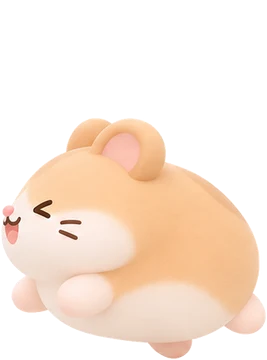
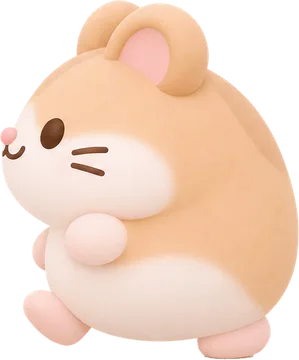
햄스터 옆모습 걷기 그림 4장 교체, 걷는 동작 2장 번갈아 쓰기, 액세서리 위치 다시 맞춤

diff --git a/animals.js b/animals.js
@@ -17,7 +17,7 @@ export const ANIMALS = [
   { id: 'bear', label: '곰', emoji: '🐻' },
   { id: 'fox', label: '여우', emoji: '🦊' },
   { id: 'sheep', label: '양', emoji: '🐑' },
-  { id: 'hamster', label: '햄스터', emoji: '🐹', runOnly: true }, // 옆으로 움직일 땐 달리는 그림(2번)만
+  { id: 'hamster', label: '햄스터', emoji: '🐹' },
 ];
 
 // 액세서리 부위: 부위마다 하나씩 착용
@@ -61,7 +61,7 @@ export const animalOf = (id) => BY_ID.get(id) || null;
 // 옆으로 움직일 때 쓰는 그림 번호: 보통은 1·2번을 번갈아, runOnly면 2번만
 export const walkFrames = (id) => (BY_ID.get(id)?.runOnly ? [1] : [0, 1]);
 export const accOf = (id) => ACC_BY_ID.get(id) || null;
-export const ANIMAL_VER = 3; // 그림을 바꾸면 올려서 캐시를 새로 받게 함
+export const ANIMAL_VER = 4; // 그림을 바꾸면 올려서 캐시를 새로 받게 함
 export const animalImg = (id, view = 'front') => `img/animals/${id}-${view}.webp?v=${ANIMAL_VER}`;
 export const accImg = (id) => `img/acc/${id}.webp?v=${ANIMAL_VER}`;
 export const VIEWS = ['front', 'back', 'left1', 'left2', 'right1', 'right2'];
@@ -90,7 +90,7 @@ export const accHtml = (it, cls = '') => `<img class="${cls}" src="${accImg(it.i
 //   feet: 발바닥 가운데 · pack: 가방 가운데
 // F = 앞모습(뒷모습은 좌우 반전해서 씀), S = 왼쪽을 보는 옆모습(오른쪽은 좌우 반전)
 // fw / sw = 앞모습 / 옆모습 그림 폭(px)
-// S2 / sw2: 옆모습 두 번째 장이 첫 장과 많이 다를 때만 (햄스터: 달리는 자세)
+// S2 / sw2: 옆모습 두 번째 장이 첫 장과 많이 다를 때만 (지금은 쓰는 동물 없음)
 const ANCHORS = {
   cat: { fw: 286, sw: 262,
     F: { head: [146, 46, 200], eyes: [148, 160, 175], neck: [146, 224, 150], body: [146, 214, 150], feet: [143, 357, 165], pack: [146, 270, 150] },
@@ -122,10 +122,9 @@ const ANCHORS = {
   sheep: { fw: 343, sw: 280,
     F: { head: [171, 24, 200], eyes: [170, 154, 160], neck: [171, 226, 165], body: [171, 220, 170], feet: [171, 357, 170], pack: [171, 290, 160] },
     S: { head: [140, 26, 200], eyes: [32, 154, 105], neck: [84, 232, 115], body: [116, 224, 140], feet: [110, 354, 150], pack: [200, 282, 150] } },
-  hamster: { fw: 299, sw: 266, sw2: 267,
+  hamster: { fw: 299, sw: 300,
     F: { head: [149, 30, 190], eyes: [147, 122, 150], neck: [148, 178, 145], body: [148, 172, 172], feet: [148, 357, 180], pack: [148, 232, 165] },
-    S: { head: [140, 32, 180], eyes: [40, 130, 105], neck: [80, 182, 105], body: [122, 178, 138], feet: [112, 352, 145], pack: [210, 232, 140] },
-    S2: { head: [112, 174, 150], eyes: [42, 194, 95], neck: [70, 250, 85], body: [138, 236, 112], feet: [132, 352, 130], pack: [206, 228, 120] } },
+    S: { head: [155, 38, 180], eyes: [51, 137, 105], neck: [95, 200, 110], body: [140, 195, 150], feet: [165, 352, 170], pack: [238, 225, 140] } },
 };
 const H = 360;
 // 부위별: 기준점에 액세서리 그림의 어느 점을 맞출지 (그림 크기 대비 %), 옆모습에서 가로로 줄이는 정도
@@ -161,7 +160,7 @@ const FRAMES = {
   bear: { w: [255, 267, 246, 244, 234, 249], hc: [126, 132], ef: [78, 175, 134], es: [[50, 143], [40, 135], [190, 134], [201, 137]] },
   fox: { w: [298, 270, 310, 335, 315, 337], hc: [132, 134], ef: [84, 184, 155], es: [[46, 156], [42, 154], [270, 146], [296, 143]] },
   sheep: { w: [343, 318, 280, 261, 266, 277], hc: [171, 158], ef: [125, 216, 156], es: [[30, 143], [31, 151], [231, 138], [240, 154]] },
-  hamster: { w: [299, 294, 266, 267, 264, 249], hc: [149, 146], ef: [103, 196, 124], es: [[31, 137], [43, 209], [234, 137], [207, 211]] },
+  hamster: { w: [299, 294, 300, 299, 283, 286], hc: [149, 146], ef: [103, 196, 124], es: [[51, 137], [51, 138], [246, 128], [249, 128]] },
 };
 const VIEW_IDX = { front: 0, back: 1, left1: 2, left2: 3, right1: 4, right2: 5 };
 const LENS = 0.445; // 안경 그림에서 두 렌즈 가운데 사이 거리 (그림 폭 대비)

diff --git a/plaza2d.js b/plaza2d.js
@@ -3,7 +3,7 @@
 // - 걷는 방향에 따라 앞·옆·뒷모습으로 바뀜, 뒤쪽(위)으로 갈수록 작게 보임
 // - 방향키 / WASD / 바닥 클릭 / 화면 방향 버튼으로 이동, Shift 달리기, Space 점프
 // 위치(x, y)는 배경 그림 기준 0~1 (y = 발 위치)
-import { animalImg, lookAccHtml, VIEWS, walkFrames } from './animals.js?v=9';
+import { animalImg, lookAccHtml, VIEWS, walkFrames } from './animals.js?v=10';
 
 // 걸을 수 있는 바닥 (배경 그림의 타일 광장, 타원)
 const FLOOR = { cx: 0.5, cy: 0.635, rx: 0.38, ry: 0.245 };

diff --git a/app.js b/app.js
@@ -10,8 +10,8 @@ import KEYWORDS from './keywords.js';
 import {
   ANIMALS, ACCESSORIES, SLOTS, ANIMAL_PRICE, ACC_PRICE,
   animalOf, accOf, animalImg, accHtml, cleanLook, ownsAnimal, ownsAcc, lookAccHtml,
-} from './animals.js?v=9';
-import { createPlaza } from './plaza2d.js?v=9';
+} from './animals.js?v=10';
+import { createPlaza } from './plaza2d.js?v=10';
 import { THEMES, THEME_PRICE, DEFAULT_THEME, themeOf, themeImg, ownsTheme, myThemeId } from './themes.js?v=2';
 
 const $ = (s) => document.querySelector(s);

diff --git a/index.html b/index.html
@@ -505,6 +505,6 @@
   <div id="toast" class="message" role="status"></div>
 
   <!-- 코드를 바꾸면 ?v= 숫자를 올려서 브라우저 캐시에 남은 옛 파일을 쓰지 않게 함 -->
-  <script type="module" src="app.js?v=58"></script>
+  <script type="module" src="app.js?v=59"></script>
 </body>
 </html>
